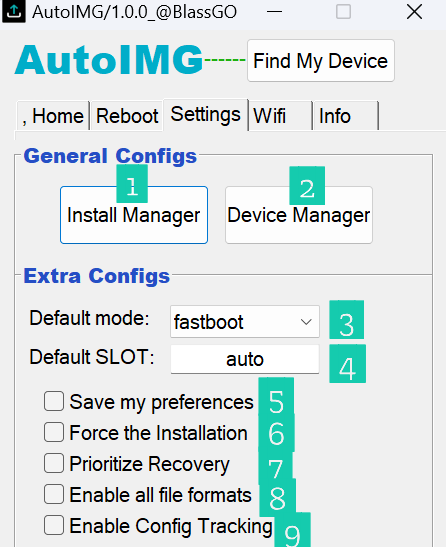
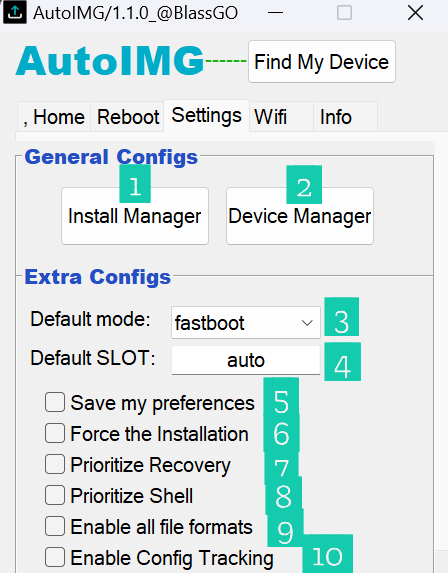
Update doc
- Added "Prioritize Shell" description.

diff --git a/langs/es/gui.md b/langs/es/gui.md
@@ -49,9 +49,11 @@
 >
 > **7.** Indica que siempre se debe preferir el uso de `Recovery` para el flasheo de archivos `ZIP`. Recordando que el Tool también soporta el flasheo de estos archivos con el dispositivo encendido.
 >
-> **8.** Habilita todas las extensiones de archivos en el selector de archivos.
+> **8.** Indica que siempre se debe preferir el uso de `ADB SHELL` para el reinicio del dispositivo. Esto aumenta la compatibilidad con el software del dispositivo.
+> 
+> **9.** Habilita todas las extensiones de archivos en el selector de archivos.
 >
-> **9.** Indica que se debe mostrar un seguimiendo paso a paso de cada línea de un `Config Script`. Esto es útil para ver su flujo.
+> **10.** Indica que se debe mostrar un seguimiendo paso a paso de cada línea de un `Config Script`. Esto es útil para ver su flujo.
 
 
 >

diff --git a/langs/en/gui.md b/langs/en/gui.md
@@ -49,9 +49,11 @@
 >
 > **7.** Indicates that the use of `Recovery` should always be preferred for flashing `ZIP` files. Remembering that the Tool also supports flashing these files with the device booted.
 >
-> **8.** Enable all file extensions in the file selector.
+> **8.** Indicates that the use of `ADB SHELL` should always be preferred for device reboot. This increases compatibility with the device's software.
+> 
+> **9.** Enable all file extensions in the file selector.
 >
-> **9.** Indicates that a step-by-step trace of each line of a `Config Script` should be shown. This is useful to check the flow.
+> **10.** Indicates that a step-by-step trace of each line of a `Config Script` should be shown. This is useful to check the flow.
 
 
 >
